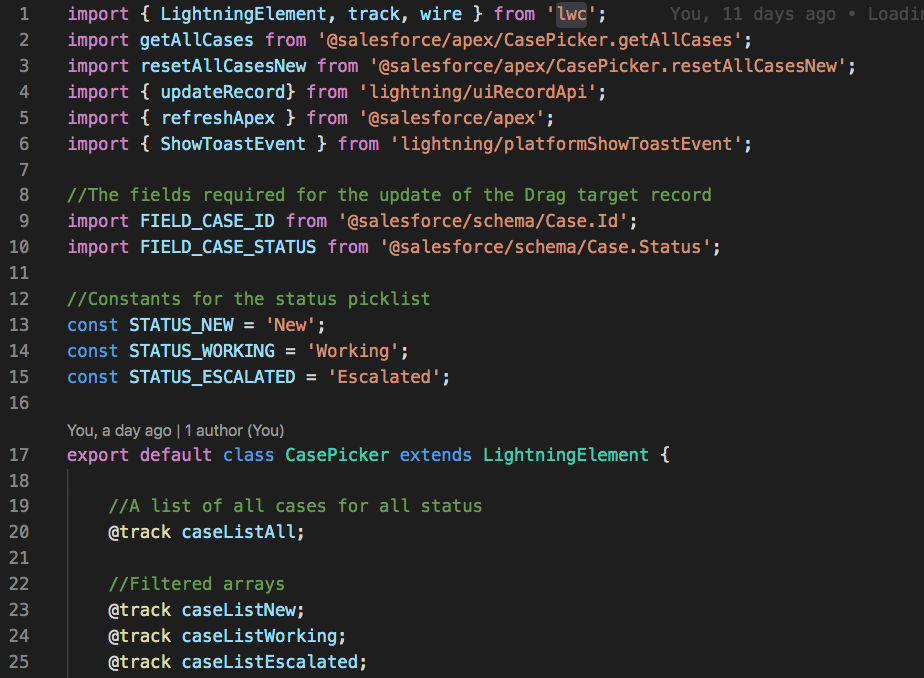
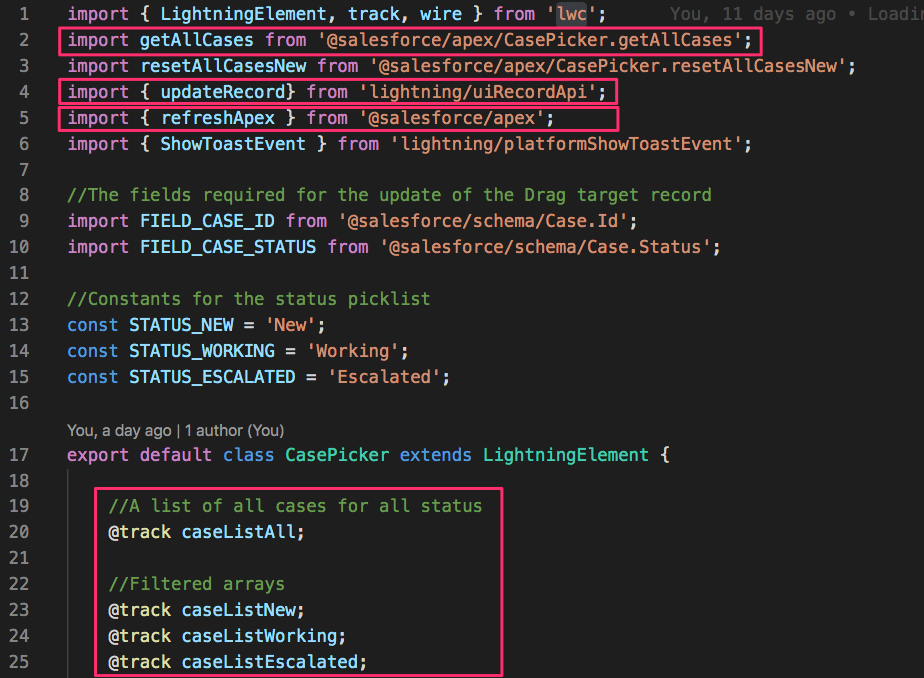
Add wire and update

Changed region(s): [[0.0606, 0.031, 0.8485, 0.2168], [0.0909, 0.7124, 0.5455, 1.0]]

diff --git a/index.html b/index.html
@@ -514,7 +514,19 @@
 					<h4>Master Component: Module<br/>
 						(casePicker.js)</h4> 
 					</h4> 
-					<img src="img/case-picker-JS-header.png" width="60%" />
+					<img src="img/case-picker-JS-header.png" width="70%" />
+				</section>
+				<section data-transition="fade-in fade-out" data-background-image="img/VD2020LogoUpperRight.png">
+					<h4>Master Component: Module<br/>
+						(casePicker.js)</h4> 
+					</h4> 
+					<img src="img/case-picker-JS-wire.png" width="70%" />
+				</section>
+				<section data-transition="fade-in fade-out" data-background-image="img/VD2020LogoUpperRight.png">
+					<h4>Master Component: Module<br/>
+						(casePicker.js)</h4> 
+					</h4> 
+					<img src="img/case-picker-JS-update.png" width="70%" />
 				</section>
 
 				<section data-transition="slide-in fade-out" data-background-image="img/VD2020LogoUpperRight.png">
